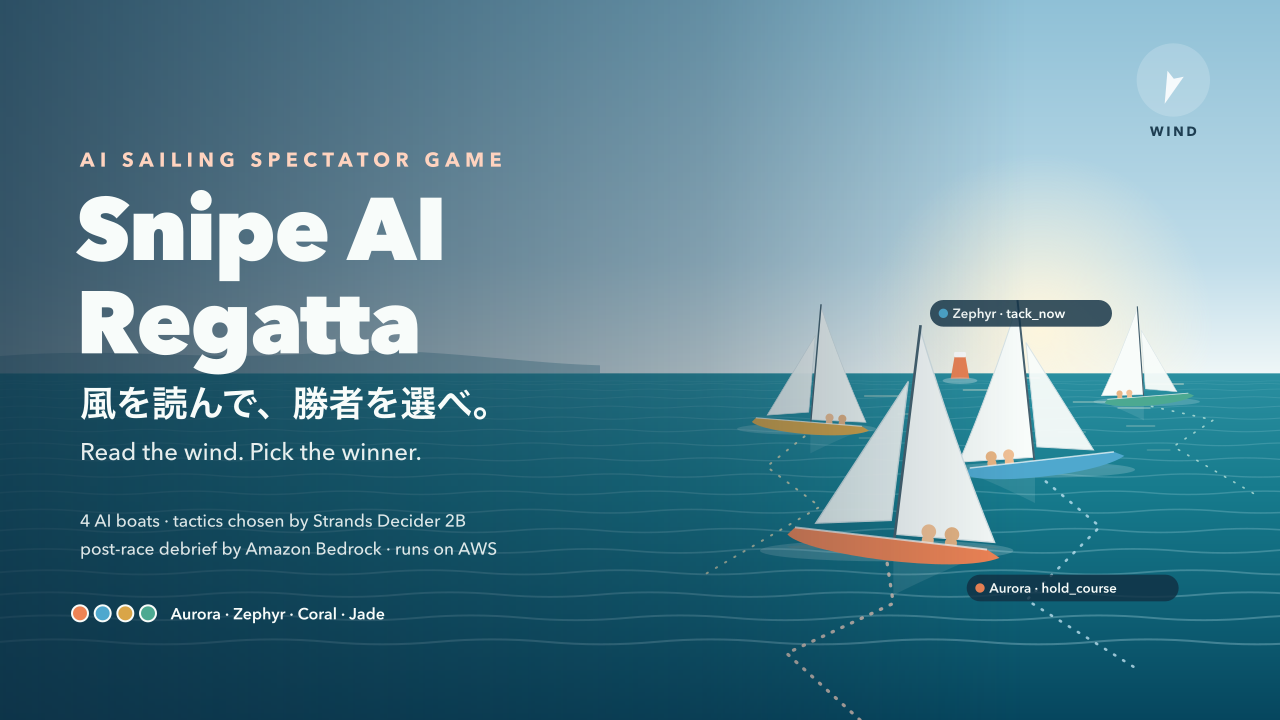
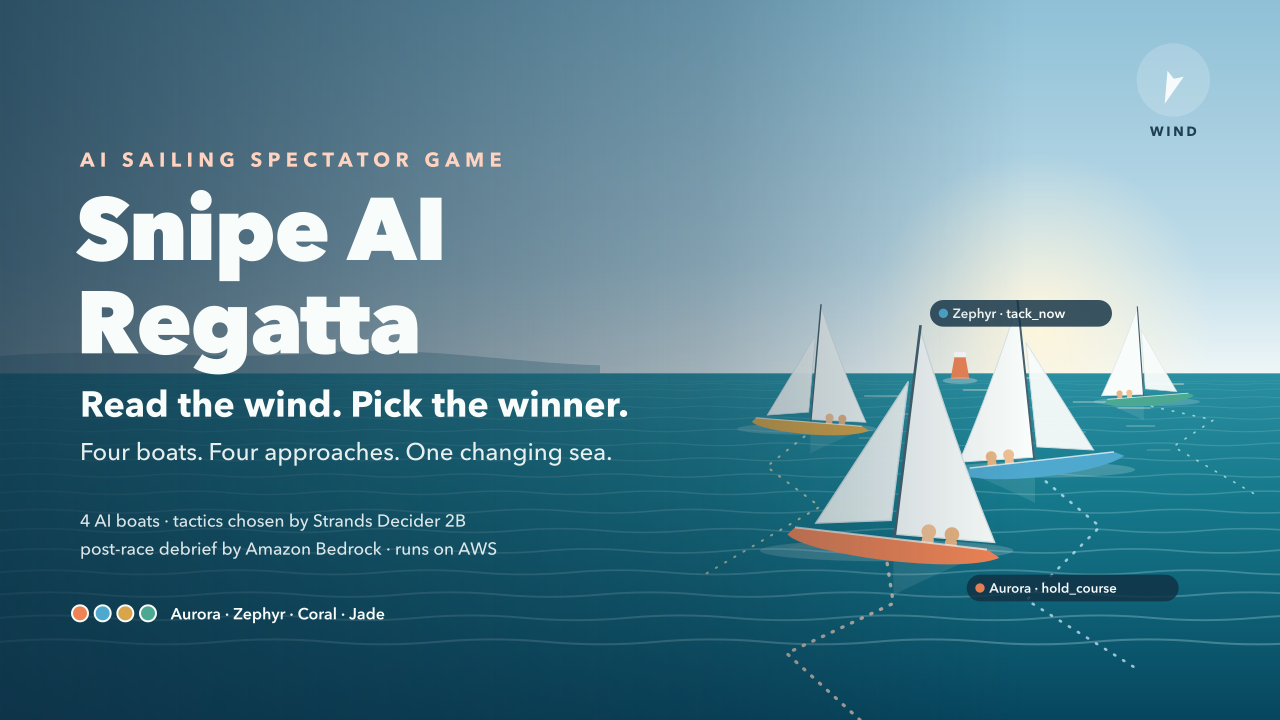
Make the cover image English only
Replace the Japanese tagline with "Read the wind. Pick the winner." and
"Four boats. Four approaches. One changing sea."; drop the Japanese font from
the font stack.

Changed region(s): [[0.0625, 0.5194, 0.5, 0.5806], [0.0625, 0.6111, 0.4688, 0.6417]]

diff --git a/docs/brand/regatta/make-cover.py b/docs/brand/regatta/make-cover.py
@@ -10,7 +10,7 @@ from pathlib import Path
 HERE = Path(__file__).resolve().parent
 W, H, HORIZON = 1920, 1080, 560
 NAVY, SEA_DEEP, SEA, SKY, SAIL, BUOY = "#102f43", "#06465e", "#167a8c", "#bfdce9", "#f8fcfa", "#ef8354"
-FONT = "font-family=\"'Avenir Next','Hiragino Sans','Noto Sans JP',system-ui,sans-serif\""
+FONT = "font-family=\"'Avenir Next','Helvetica Neue',system-ui,sans-serif\""
 BOATS = [
     # name, hull color, x, y, scale, heel (deg), facing (1 = sails to the right)
     ("Jade", "#4ca991", 1720, 600, 0.42, -4, -1),
@@ -157,8 +157,8 @@ def build():
     <text x="120" y="250" font-size="30" font-weight="700" letter-spacing="8" fill="#ffd3bf">AI SAILING SPECTATOR GAME</text>
     <text x="114" y="390" font-size="132" font-weight="800" letter-spacing="-2">Snipe AI</text>
     <text x="114" y="530" font-size="132" font-weight="800" letter-spacing="-2">Regatta</text>
-    <text x="120" y="625" font-size="54" font-weight="700">風を読んで、勝者を選べ。</text>
-    <text x="120" y="690" font-size="36" font-weight="500" opacity="0.92">Read the wind. Pick the winner.</text>
+    <text x="120" y="625" font-size="54" font-weight="700">Read the wind. Pick the winner.</text>
+    <text x="120" y="690" font-size="36" font-weight="500" opacity="0.92">Four boats. Four approaches. One changing sea.</text>
     <text x="120" y="790" font-size="26" font-weight="500" opacity="0.88">4 AI boats · tactics chosen by Strands Decider 2B</text>
     <text x="120" y="832" font-size="26" font-weight="500" opacity="0.88">post-race debrief by Amazon Bedrock · runs on AWS</text>
   </g>
